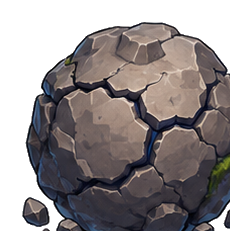
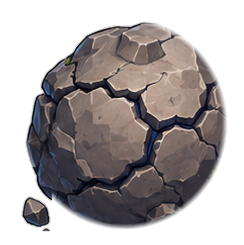
fix: clean obstacle alpha masks

diff --git a/sw.js b/sw.js
@@ -1,4 +1,4 @@
-const CACHE_NAME = "kemi-fly-v17";
+const CACHE_NAME = "kemi-fly-v18";
 const CORE_ASSETS = [
   "./",
   "./index.html",